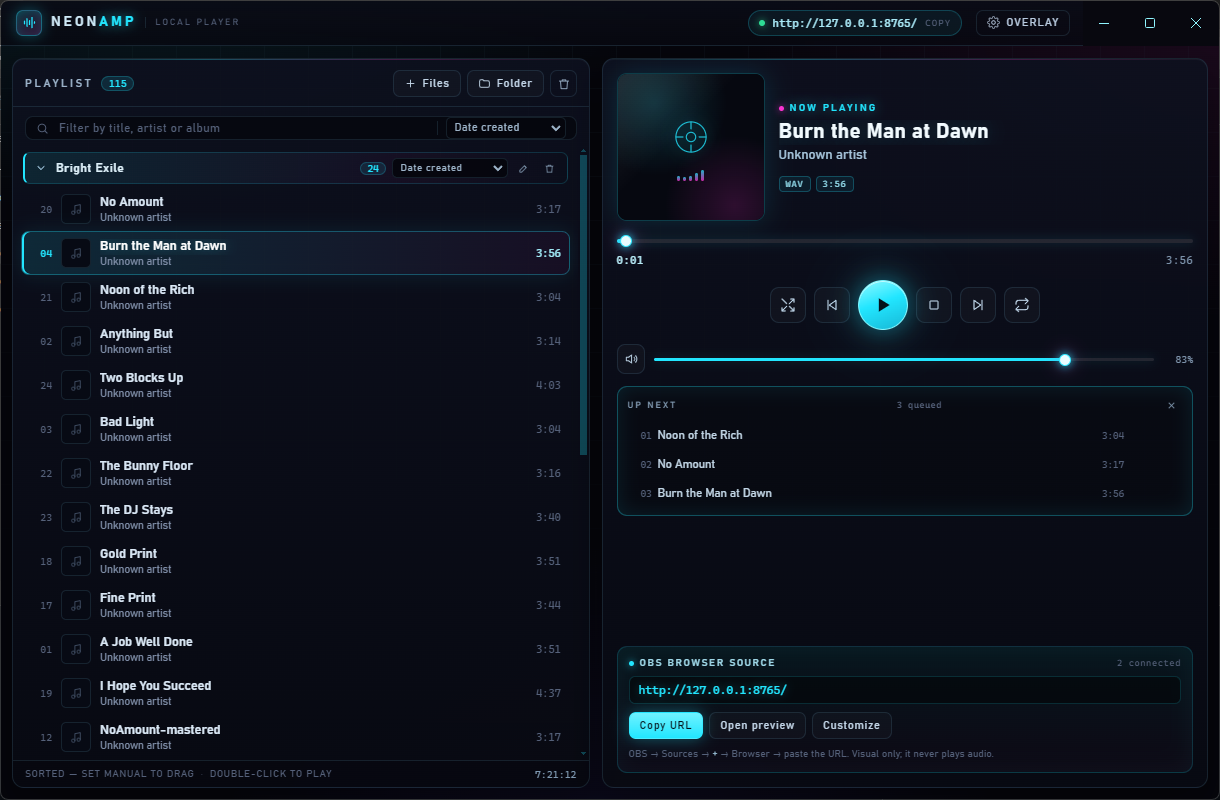
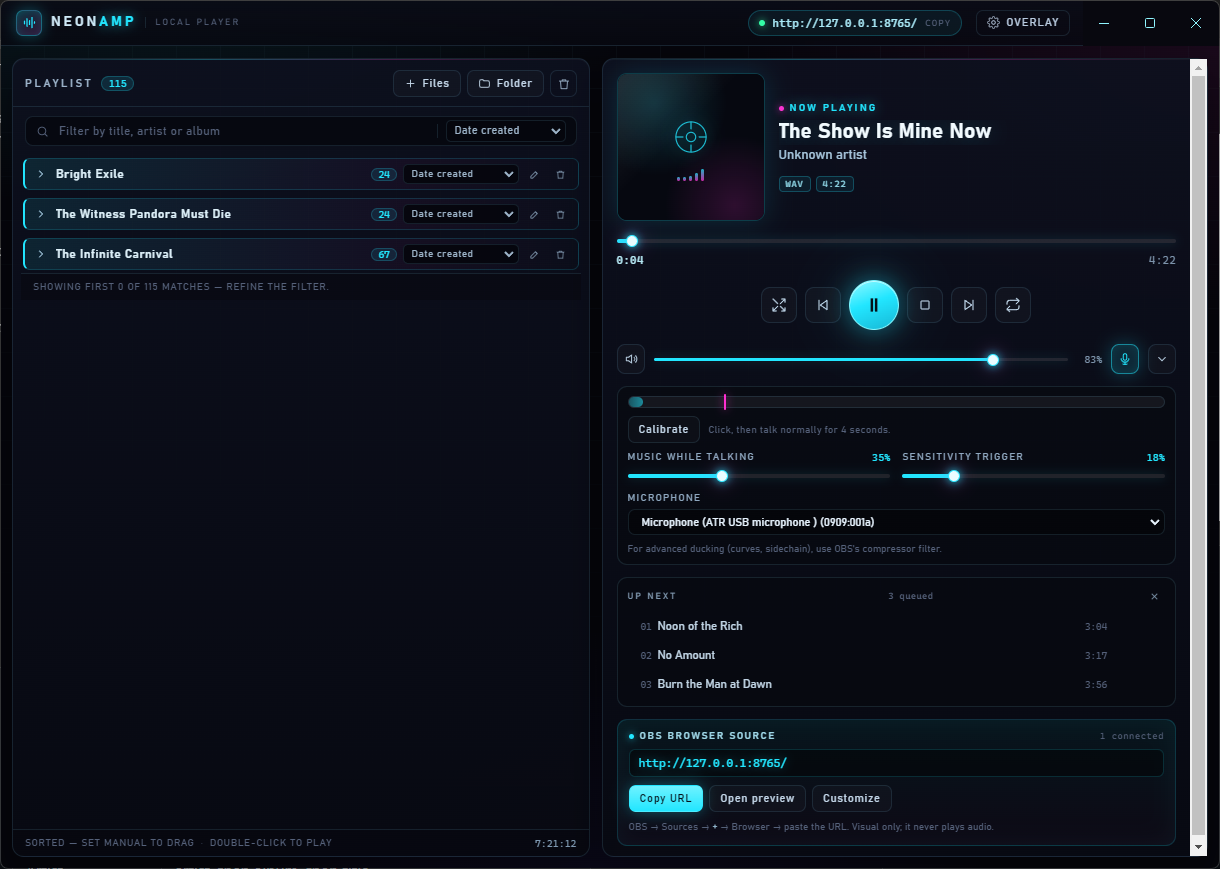
Replace player screenshot with the voice ducking panel open

diff --git a/README.md b/README.md
@@ -20,7 +20,7 @@ A compact, neon-cyberpunk desktop music player for **local MP3 / WAV files**, wi
 
 ![NeonAmp player window](docs/screenshot-player.png)
 
-*The player: album-grouped playlist on the left, Now Playing and the editable Up Next queue on the right, and the OBS Browser Source URL at the bottom.*
+*The player: album-grouped playlist on the left, Now Playing with the voice ducking panel open, the editable Up Next queue, and the OBS Browser Source URL at the bottom.*
 
 ![Overlay settings with live preview](docs/screenshot-overlay-settings.png)
 
